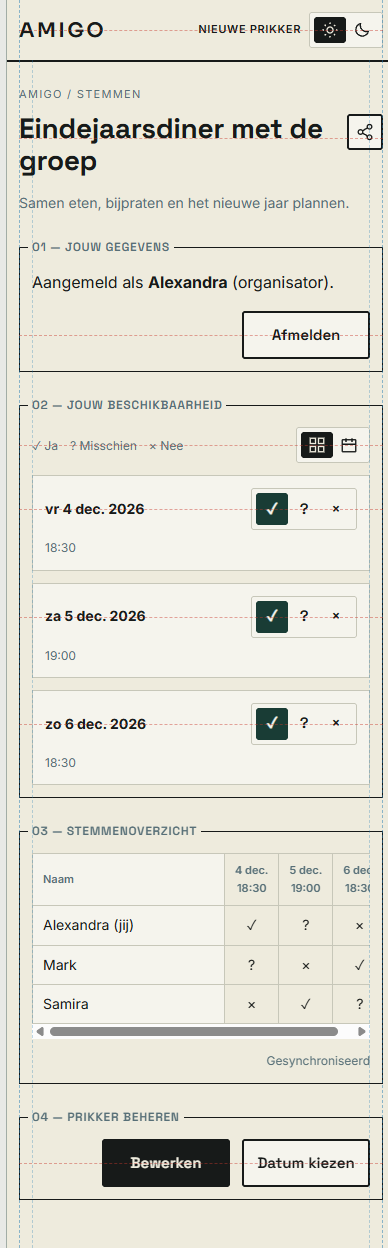
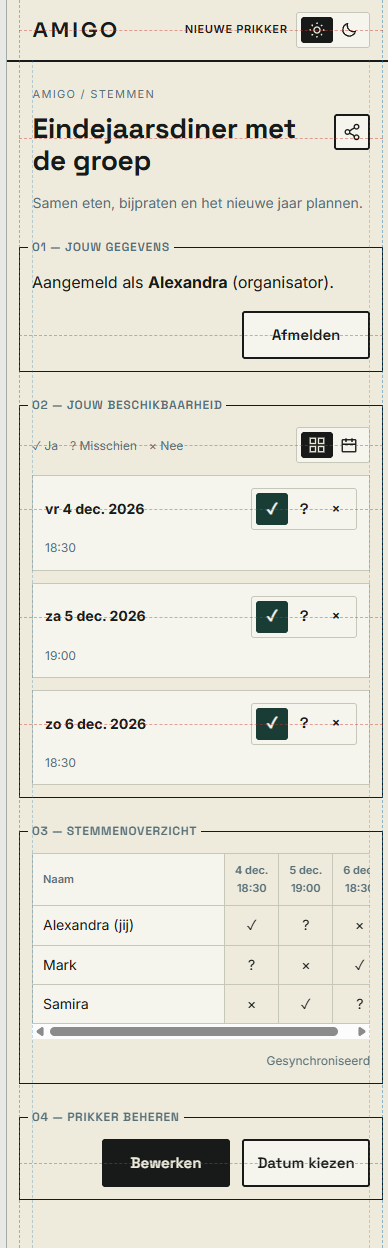
Layout changes

Changed region(s): [[0.0309, 0.0625, 0.9897, 0.1875], [0.4639, 0.0, 0.9588, 0.0625], [0.0619, 0.0, 0.3093, 0.0312]]

diff --git a/docs/planner-wireframe.html b/docs/planner-wireframe.html
@@ -343,7 +343,7 @@ OTHER DEALINGS IN THE FONT SOFTWARE.
     <div class="stage"><iframe id="preview" title="Wireframe van de datumprikker"></iframe></div>
     <div class="notes">
       <section class="note"><h2>A · Buitenlijn</h2><p>Logo, titel en segmentkaders beginnen op dezelfde lijn. Header en pagina delen een breedte van maximaal 760 px.</p></section>
-      <section class="note"><h2>B · Horizontale lijnen</h2><p>Segmenttitels volgen de linkerrand van de inhoud. Op brede schermen staan naam, wachtwoord en aanmelden op één rij. Op mobiel staan de velden onder elkaar over de volle breedte, met de knop eronder rechts. De deelknop staat rechts naast de polltitel; de synchronisatiestatus staat onder de stemtabel.</p></section>
+      <section class="note"><h2>B · Uitlijning</h2><p>Header, eyebrow, titel, beschrijving en deelknop volgen dezelfde binnenranden als de segmentinhoud. De kaders staan iets verder naar buiten. Op brede schermen staan naam, wachtwoord en aanmelden op één rij. Op mobiel krijgen de velden de volle breedte, met de knop eronder rechts. De synchronisatiestatus staat onder de stemtabel.</p></section>
       <section class="note"><h2>Ritme</h2><p>24 px tussen segmenten, 16 px tussen velden, 8 px tussen label en veld en 12 px tussen kaarten en knoppen. De pagina groeit mee; alleen de tabel scrolt horizontaal.</p></section>
     </div>
   </main>
@@ -469,13 +469,14 @@ OTHER DEALINGS IN THE FONT SOFTWARE.
       button:focus-visible,a:focus-visible,input:focus-visible,textarea:focus-visible,.table-scroll:focus-visible { outline:2px solid var(--ink); outline-offset:3px; }
       svg { width:18px; height:18px; flex:none; } a { color:inherit; }
       .top { border-bottom:2px solid var(--ink); } .wrap,.page { width:100%; max-width:760px; padding-inline:var(--gutter); margin-inline:auto; }
-      .top .wrap { min-height:60px; display:flex; align-items:center; justify-content:space-between; gap:12px; }
+      .top .wrap { min-height:60px; display:flex; flex-wrap:wrap; align-items:center; justify-content:space-between; gap:12px; padding-block:8px; padding-inline:calc(var(--gutter) + var(--inset) + 1.5px); }
       .logo { font:600 20px Sora,sans-serif; letter-spacing:.12em; text-decoration:none; }
-      nav { display:flex; align-items:center; gap:12px; } nav>a { font-size:11px; font-weight:600; letter-spacing:.06em; text-transform:uppercase; text-decoration:none; }
+      nav { display:flex; flex-wrap:wrap; align-items:center; justify-content:flex-end; gap:12px; margin-inline-start:auto; } nav>a { font-size:11px; font-weight:600; letter-spacing:.06em; text-transform:uppercase; text-decoration:none; }
       .page { padding-block:32px 48px; } .eyebrow { font-size:11px; letter-spacing:.12em; text-transform:uppercase; color:var(--muted); }
       h1 { font:700 34px/1.15 'Space Grotesk',sans-serif; letter-spacing:-.01em; overflow-wrap:anywhere; margin:8px 0 16px; }
       h2 { font:600 14px/1.4 'Space Grotesk',sans-serif; text-transform:uppercase; letter-spacing:.06em; margin:0 0 16px; padding-bottom:8px; border-bottom:1px solid var(--border); }
       p { margin:0; } .description,.status { color:var(--muted); font-size:14px; } .description { margin-bottom:16px; }
+      .page>:is(.eyebrow,h1,.poll-heading,p) { margin-inline:calc(var(--inset) + 1.5px); }
       .poll-heading { display:grid; grid-template-columns:minmax(0,1fr) auto; align-items:start; gap:16px; margin:8px 0 16px; }
       .poll-heading h1 { margin:0; } .poll-heading>.icon-button { margin-top:2px; } .status { text-align:right; font-size:12px; margin-top:12px; }
       .segments { display:grid; gap:24px; margin-top:24px; } .segment { min-width:0; margin:0; padding:0; border:1.5px solid var(--ink); }

diff --git a/src/styles/planner-layout.css b/src/styles/planner-layout.css
@@ -4,6 +4,7 @@
   --planner-width: 760px;
   --planner-gutter: 24px;
   --planner-inset: 16px;
+  --planner-content-inset: calc(var(--planner-inset) + 1.5px);
   --planner-section-gap: 24px;
   --planner-field-gap: 16px;
   --planner-control-gap: 12px;
@@ -18,13 +19,21 @@
   padding-inline: var(--planner-gutter);
 }
 
-.planner-header .wrap { flex-wrap: wrap; gap: 12px; padding-block: 8px; }
+.planner-header .wrap {
+  flex-wrap: wrap;
+  gap: 12px;
+  padding-block: 8px;
+  padding-inline: calc(var(--planner-gutter) + var(--planner-content-inset));
+}
 .planner-header nav { flex-wrap: wrap; gap: 12px; }
 .planner-header nav a { padding-inline: 0; }
 .planner-page { padding-block: 32px 48px; }
 .planner-page h1 { margin-block: 8px 16px; overflow-wrap: anywhere; }
 .planner-page h2 { margin-block: 0 16px; padding-bottom: 8px; }
 .planner-page .description { margin-block: 0 16px; }
+.planner-page > :is(.eyebrow, h1, .poll-heading, p) {
+  margin-inline: var(--planner-content-inset);
+}
 
 .planner-page .poll-heading {
   display: grid;
@@ -87,7 +96,7 @@
   font-size: 15px;
   line-height: 1.2;
 }
-.planner-page .planner-page-actions { padding-inline: calc(var(--planner-inset) + 1.5px); }
+.planner-page .planner-page-actions { padding-inline: var(--planner-content-inset); }
 .planner-page button[type]:not(:where(.calendar button, .date-row button, .vote-grid button, .segmented-control__option, .copy-button--icon)) { font-size: 15px; }
 .planner-page .organizer-actions { flex-wrap: wrap; }
 .planner-page .organizer-reopen { margin-top: 24px; gap: 12px 16px; }

diff --git a/src/i18n/en-GB.js b/src/i18n/en-GB.js
@@ -53,7 +53,7 @@ export default {
   'error.login': 'Sign-in failed. {detail}',
   'error.vote': 'Could not save your vote. Try again. {detail}',
   'error.generic': 'Something went wrong. Please try again.',
-  'login.section': '01 — Your details',
+  'login.section': '01 — Credentials',
   'login.signedIn': 'Signed in as',
   'login.organizerSuffix': ' (organiser)',
   'login.signIn': 'Sign in',
@@ -98,7 +98,7 @@ export default {
   'organizer.sort': 'Sort cards',
   'organizer.mostYes': 'Most yes votes',
   'organizer.tally': '{yes} yes, {maybe} maybe, {no} no',
-  'poll.eyebrow': 'AMIGO / VOTING',
+  'poll.eyebrow': 'AMIGO / PLANNER',
   'poll.loading': 'Loading planner…',
   'poll.deleted': 'This planner no longer exists. Inactive planners are deleted after 14 days.',
   'poll.notCached': 'This planner has not been saved on this device yet. Open the link online first.',

diff --git a/src/i18n/nl-BE.js b/src/i18n/nl-BE.js
@@ -53,7 +53,7 @@ export default {
   'error.login': 'Aanmelden mislukt. {detail}',
   'error.vote': 'Stem bewaren mislukt. Probeer opnieuw. {detail}',
   'error.generic': 'Er ging iets mis. Probeer opnieuw.',
-  'login.section': '01 — Jouw gegevens',
+  'login.section': '01 — Gegevens',
   'login.signedIn': 'Aangemeld als',
   'login.organizerSuffix': ' (organisator)',
   'login.signIn': 'Aanmelden',

diff --git a/README.md b/README.md
@@ -62,7 +62,7 @@ Gebruik de gedeelde datumfuncties en `formatNumber`, `formatCurrency` en `parseN
 
 Open [het losse wireframe](docs/planner-wireframe.html) rechtstreeks in de browser. Het bevat aanmaken, delen, stemmen, bewerken en einddatum kiezen, met instelbare breedte, licht/donker thema, gebruikerssituatie, kaarten/kalender en lange voorbeeldinhoud. Blauwe verticale hulplijnen tonen de randen; afzonderlijk schakelbare oranje horizontale lijnen tonen de rijmiddens en de basislijn van de titel. Naam en afmeldknop staan gecentreerd naast elkaar, de aanmeldknop sluit aan op het wachtwoordveld en datum en bediening delen een rij. De lettertypen zijn ingesloten; een server of Supabase-verbinding is niet nodig. De bediening gebruikt fictieve gegevens.
 
-De [desktopafbeelding](docs/planner-wireframe-desktop.png) en [mobiele afbeelding](docs/planner-wireframe-mobile.png) geven een eerste overzicht. Het goedgekeurde raster is toegepast op aanmaken, delen, stemmen en organisatorbeheer: één breedte van 760 px, gedeelde uitlijningslijnen en een vast ritme van afstanden. De gedeelde maten staan in `src/styles/planner-layout.css` en zijn begrensd tot de datumprikker. Kalenderdagen blijven vierkant, ook op smalle schermen en met tijdstip en stemmarkering.
+De [desktopafbeelding](docs/planner-wireframe-desktop.png) en [mobiele afbeelding](docs/planner-wireframe-mobile.png) geven een eerste overzicht. Het goedgekeurde raster is toegepast op aanmaken, delen, stemmen en organisatorbeheer: één breedte van 760 px, gedeelde uitlijningslijnen en een vast ritme van afstanden. Header, eyebrow, titel, beschrijving en deelknop volgen de binnenranden van de segmentinhoud; de segmentkaders staan iets verder naar buiten. De gedeelde maten staan in `src/styles/planner-layout.css` en zijn begrensd tot de datumprikker. Kalenderdagen blijven vierkant, ook op smalle schermen en met tijdstip en stemmarkering.
 
 `node tests/wireframe-browser.mjs` controleert verticale randen, horizontale rijmiddens en de plaatsing van de deelknop en de status onder de tabel op 320, 390, 768 en 1440 px, in beide thema's en met verschillende rollen, beide datumweergaven en lange inhoud. Voeg `--screenshots` toe om de twee voorbeeldafbeeldingen opnieuw te maken. Chrome en de gebruikelijke `CHROME_PATH`-instelling werken zoals bij de andere browsertests.
 
